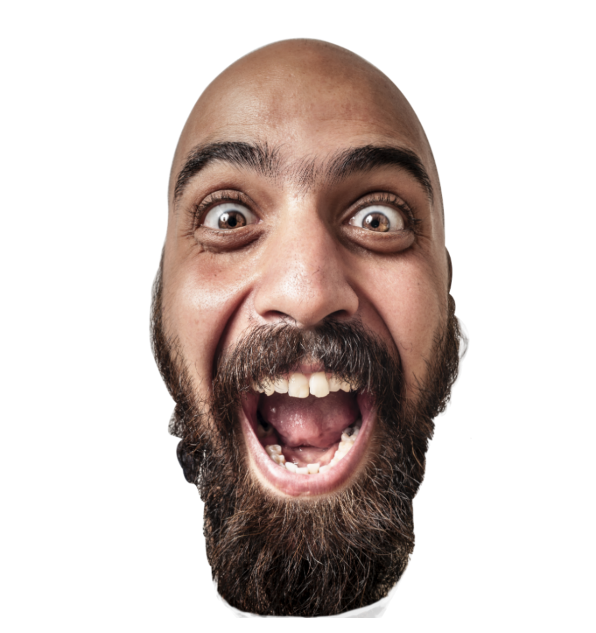
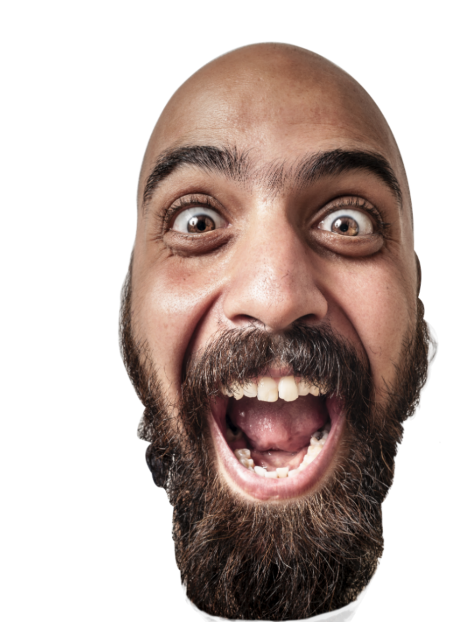
Correcciones imágenes.

diff --git a/facedet5_dev/maquetado/js/function.js b/facedet5_dev/maquetado/js/function.js
@@ -152,8 +152,8 @@ function drawBigFace(){
 
     for (i = comp.length; i--; ) {
         //ctx.drawImage(img, comp[i].x - (comp[i].x * 0.27), comp[i].y - (comp[i].y * 1.1), comp[i].width * 1.5, comp[i].height * 1.8);
-        ctx.drawImage(img, comp[i].x * 0.75, comp[i].y * 0.4, comp[i].width * 1.4 , comp[i].height * 1.7);
-
+        //ctx.drawImage(img, comp[i].x * 0.75, comp[i].y * 0.4, comp[i].width * 1.4 , comp[i].height * 1.7);
+        ctx.drawImage(img, comp[i].x * 0.75, comp[i].y * 0.5, comp[i].width * 1.4 , comp[i].height * 1.7);
     }
     
 }
